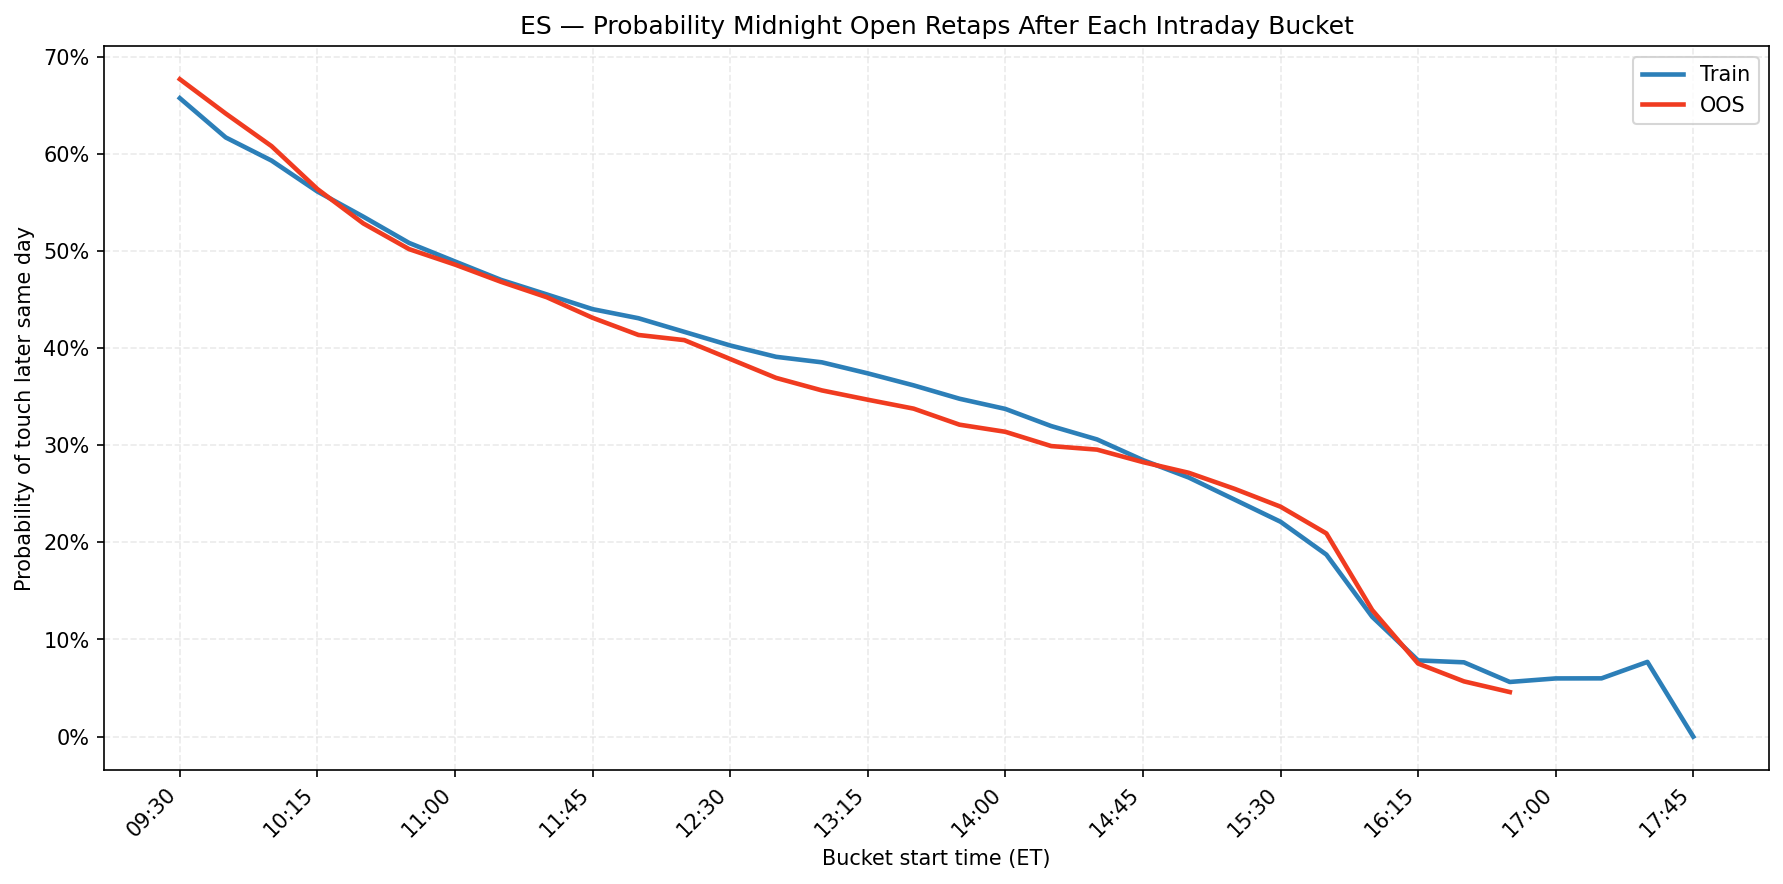
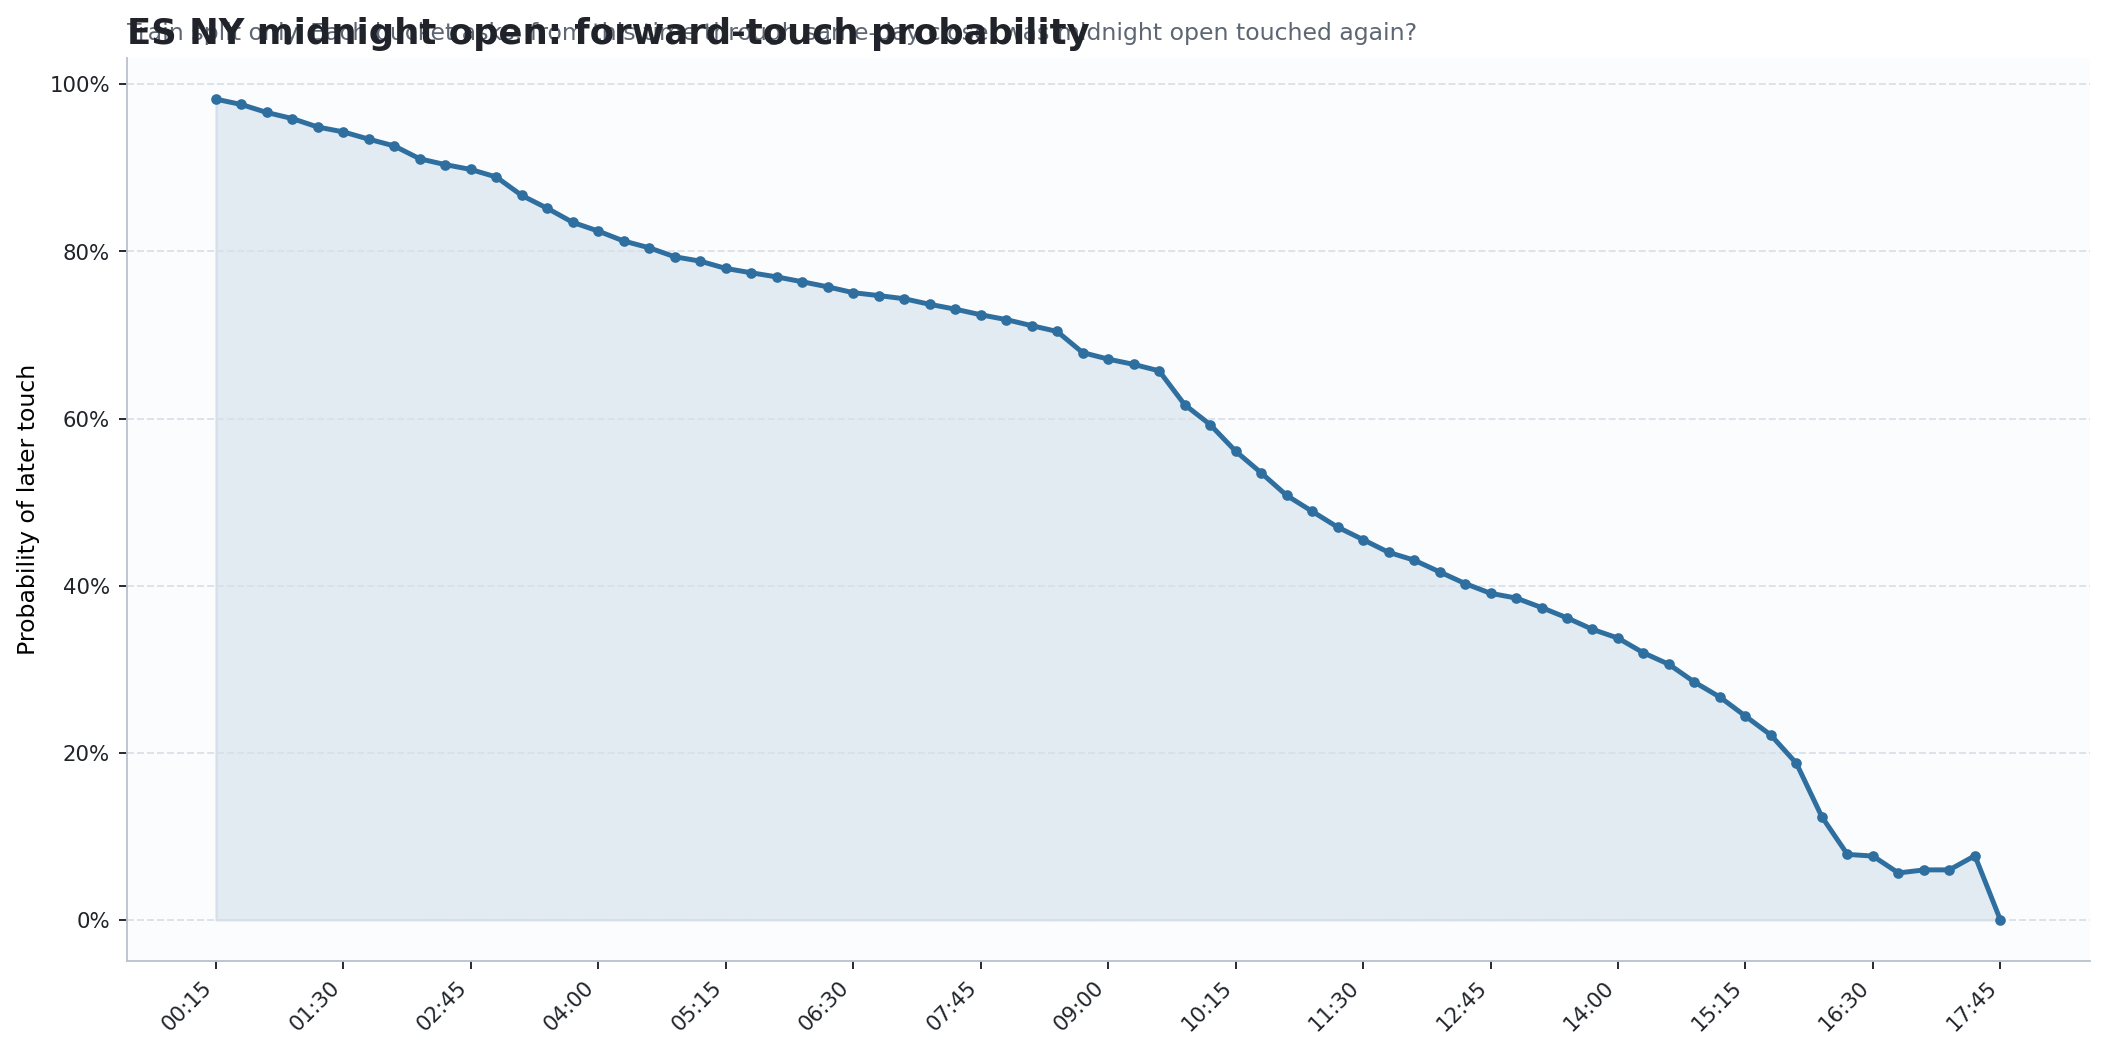
feat: add reproducible readme example gallery

diff --git a/scripts/build_readme_examples.py b/scripts/build_readme_examples.py
@@ -1,0 +1,253 @@
+#!/usr/bin/env python3
+"""Build tracked README example charts for the PO3 research toolkit."""
+
+from __future__ import annotations
+
+import argparse
+import sys
+from dataclasses import dataclass
+from pathlib import Path
+
+REPO_ROOT = Path(__file__).resolve().parents[1]
+if str(REPO_ROOT) not in sys.path:
+    sys.path.insert(0, str(REPO_ROOT))
+
+import matplotlib
+
+matplotlib.use("Agg")
+
+import matplotlib.pyplot as plt
+import matplotlib.ticker as mticker
+import numpy as np
+import pandas as pd
+
+from po3_research.research import (
+    DAYS,
+    SESSION_ORDER,
+    build_relative_level_path_rows,
+    build_weekly,
+    intraday_level_forward_touch_distribution,
+    load_1m_source,
+    load_and_resample,
+)
+
+DEFAULT_SYMBOL = "ES"
+DEFAULT_DATA_PATH = Path("data/es_1m.parquet")
+DEFAULT_OUTPUT_DIR = Path("output/examples")
+DEFAULT_RESAMPLE_TO = "1h"
+
+BULL = "#2E8B57"
+BEAR = "#C44536"
+BLUE = "#2F6F9F"
+GOLD = "#C99700"
+GRID = "#D9DEE7"
+TEXT = "#20242A"
+MUTED = "#5D6673"
+
+
+@dataclass(frozen=True)
+class GallerySpec:
+    filename: str
+    title: str
+
+
+def gallery_specs(symbol: str = DEFAULT_SYMBOL) -> list[GallerySpec]:
+    """Stable README gallery file list."""
+    s = symbol.lower()
+    label = symbol.upper()
+    return [
+        GallerySpec(f"{s}_weekly_low_day_distribution.png", f"{label} weekly low weekday distribution"),
+        GallerySpec(f"{s}_weekly_high_day_distribution.png", f"{label} weekly high weekday distribution"),
+        GallerySpec(f"{s}_weekly_extreme_hour_distribution.png", f"{label} weekly extreme hour distribution"),
+        GallerySpec(f"{s}_weekly_day_session_heatmap.png", f"{label} weekly day × session heatmap"),
+        GallerySpec(f"{s}_midnight_open_forward_touch_15m.png", f"{label} midnight-open forward-touch probability"),
+        GallerySpec(f"{s}_relative_path_context_summary.png", f"{label} relative path context summary"),
+    ]
+
+
+def _style_axes(ax: plt.Axes) -> None:
+    ax.set_facecolor("#FBFCFE")
+    ax.grid(axis="y", color=GRID, linewidth=0.8, linestyle="--", alpha=0.9)
+    ax.spines["top"].set_visible(False)
+    ax.spines["right"].set_visible(False)
+    ax.spines["left"].set_color("#BAC3CF")
+    ax.spines["bottom"].set_color("#BAC3CF")
+    ax.tick_params(colors=TEXT, labelsize=9)
+
+
+def _finish(fig: plt.Figure, path: Path) -> None:
+    path.parent.mkdir(parents=True, exist_ok=True)
+    fig.savefig(path, dpi=170, bbox_inches="tight")
+    plt.close(fig)
+    print(f"wrote {path}")
+
+
+def _pct_by_bull_bear(weekly: pd.DataFrame, col: str) -> pd.DataFrame:
+    rows = []
+    for regime in ["Bullish", "Bearish"]:
+        sub = weekly[weekly["Bull_Bear"].eq(regime)]
+        pct = sub[col].value_counts(normalize=True).mul(100).reindex(DAYS, fill_value=0)
+        for day, value in pct.items():
+            rows.append({"Regime": regime, "Day": day, "Pct": float(value), "n": len(sub)})
+    return pd.DataFrame(rows)
+
+
+def _plot_weekday_distribution(weekly: pd.DataFrame, symbol: str, extreme: str, col: str, output: Path) -> None:
+    data = _pct_by_bull_bear(weekly, col)
+    fig, ax = plt.subplots(figsize=(11.5, 6.2))
+    x = np.arange(len(DAYS))
+    width = 0.34
+    for offset, regime, color in [(-0.18, "Bullish", BULL), (0.18, "Bearish", BEAR)]:
+        sub = data[data["Regime"].eq(regime)]
+        bars = ax.bar(x + offset, sub["Pct"], width, label=f"{regime} weeks (n={int(sub['n'].iloc[0])})", color=color, edgecolor="white", linewidth=1)
+        for bar in bars:
+            h = bar.get_height()
+            if h >= 1:
+                ax.text(bar.get_x() + bar.get_width() / 2, h + 0.7, f"{h:.1f}%", ha="center", va="bottom", fontsize=8, color=TEXT)
+    _style_axes(ax)
+    ax.set_xticks(x)
+    ax.set_xticklabels(DAYS)
+    ax.set_ylabel("Share of weeks")
+    ax.yaxis.set_major_formatter(mticker.PercentFormatter())
+    ax.set_title(f"{symbol.upper()} weekly {extreme.lower()} formation by weekday", loc="left", fontsize=15, fontweight="bold", color=TEXT)
+    ax.text(0, 1.02, "Bullish/bearish split shows whether weekly direction changes the timing profile.", transform=ax.transAxes, color=MUTED, fontsize=10)
+    ax.legend(frameon=False, loc="upper right")
+    fig.tight_layout()
+    _finish(fig, output)
+
+
+def _plot_hour_distribution(weekly: pd.DataFrame, symbol: str, output: Path) -> None:
+    fig, axes = plt.subplots(2, 2, figsize=(13, 8.5), sharex=True)
+    fig.suptitle(f"{symbol.upper()} hour-of-day when weekly extremes formed", x=0.06, y=0.99, ha="left", fontsize=15, fontweight="bold", color=TEXT)
+    fig.text(0.06, 0.955, "Hours are New York time; each panel is normalized within its weekly direction bucket.", color=MUTED, fontsize=10)
+    combos = [
+        ("Weekly LOW", "Low_Hour", "Bullish", BULL),
+        ("Weekly LOW", "Low_Hour", "Bearish", BEAR),
+        ("Weekly HIGH", "High_Hour", "Bullish", BULL),
+        ("Weekly HIGH", "High_Hour", "Bearish", BEAR),
+    ]
+    for ax, (label, col, regime, color) in zip(axes.ravel(), combos):
+        sub = weekly[weekly["Bull_Bear"].eq(regime)]
+        pct = sub[col].value_counts(normalize=True).mul(100).reindex(range(24), fill_value=0)
+        ax.bar(pct.index, pct.values, color=color, width=0.82, edgecolor="white")
+        _style_axes(ax)
+        ax.set_title(f"{label} — {regime} (n={len(sub)})", loc="left", fontsize=11, color=TEXT)
+        ax.set_ylabel("Share")
+        ax.set_xticks(range(0, 24, 2))
+        ax.yaxis.set_major_formatter(mticker.PercentFormatter())
+    fig.supxlabel("Hour (ET)", y=0.04, fontsize=10)
+    fig.tight_layout(rect=(0, 0.04, 1, 0.94))
+    _finish(fig, output)
+
+
+def _plot_day_session_heatmap(weekly: pd.DataFrame, symbol: str, output: Path) -> None:
+    fig, axes = plt.subplots(2, 2, figsize=(13.5, 9.5), sharex=True, sharey=True)
+    fig.suptitle(f"{symbol.upper()} weekly extreme timing: weekday × session", x=0.06, y=0.99, ha="left", fontsize=15, fontweight="bold", color=TEXT)
+    fig.text(0.06, 0.958, "Cell values are % of weeks inside each bullish/bearish subset.", color=MUTED, fontsize=10)
+    panels = [
+        ("LOW — Bullish", "Low_Weekday", "Low_Session", "Bullish"),
+        ("LOW — Bearish", "Low_Weekday", "Low_Session", "Bearish"),
+        ("HIGH — Bullish", "High_Weekday", "High_Session", "Bullish"),
+        ("HIGH — Bearish", "High_Weekday", "High_Session", "Bearish"),
+    ]
+    vmax = 0.0
+    tables = []
+    for _, day_col, sess_col, regime in panels:
+        sub = weekly[weekly["Bull_Bear"].eq(regime)]
+        ct = pd.crosstab(sub[day_col], sub[sess_col], normalize=True).mul(100).reindex(DAYS, fill_value=0).reindex(columns=SESSION_ORDER, fill_value=0)
+        tables.append((ct, len(sub)))
+        vmax = max(vmax, float(ct.values.max()))
+    for ax, panel, table in zip(axes.ravel(), panels, tables):
+        title, _, _, _ = panel
+        ct, n = table
+        im = ax.imshow(ct.values, cmap="YlGnBu", aspect="auto", vmin=0, vmax=vmax)
+        ax.set_title(f"{title} (n={n})", loc="left", fontsize=11, color=TEXT)
+        ax.set_xticks(range(len(SESSION_ORDER)))
+        ax.set_xticklabels(SESSION_ORDER, rotation=25, ha="right")
+        ax.set_yticks(range(len(DAYS)))
+        ax.set_yticklabels(DAYS)
+        for r in range(ct.shape[0]):
+            for c in range(ct.shape[1]):
+                v = ct.values[r, c]
+                if v >= 0.5:
+                    ax.text(c, r, f"{v:.1f}", ha="center", va="center", fontsize=8, color="white" if v > vmax * 0.58 else TEXT)
+    fig.colorbar(im, ax=axes.ravel().tolist(), shrink=0.88, label="% of weeks")
+    fig.tight_layout(rect=(0, 0, 0.94, 0.94))
+    _finish(fig, output)
+
+
+def _plot_forward_touch(df_1m: pd.DataFrame, symbol: str, output: Path) -> None:
+    forward = intraday_level_forward_touch_distribution(df_1m, bucket_freq="15min")
+    sub = forward[(forward["Split"].eq("Train")) & (forward["Level_Name"].eq("NY_Midnight_Open"))].copy()
+    fig, ax = plt.subplots(figsize=(12.5, 6.3))
+    x = np.arange(len(sub))
+    ax.plot(x, sub["touch_pct"], color=BLUE, linewidth=2.1, marker="o", markersize=3.5)
+    ax.fill_between(x, sub["touch_pct"].astype(float).to_numpy(), color=BLUE, alpha=0.12)
+    _style_axes(ax)
+    step = max(1, len(sub) // 14)
+    ax.set_xticks(x[::step])
+    ax.set_xticklabels(sub["Bucket_Time"].iloc[::step], rotation=45, ha="right")
+    ax.set_ylabel("Probability of later touch")
+    ax.yaxis.set_major_formatter(mticker.PercentFormatter())
+    ax.set_title(f"{symbol.upper()} NY midnight open: forward-touch probability", loc="left", fontsize=15, fontweight="bold", color=TEXT)
+    ax.text(0, 1.02, "Train split only. Each bucket asks: from this time through same-day close, was midnight open touched again?", transform=ax.transAxes, color=MUTED, fontsize=10)
+    fig.tight_layout()
+    _finish(fig, output)
+
+
+def _plot_relative_path(df_1m: pd.DataFrame, symbol: str, output: Path) -> None:
+    rows = build_relative_level_path_rows(df_1m)
+    focus = rows[(rows["Split"].eq("Train")) & (rows["Window_Name"].eq("Midnight_to_0930"))].copy()
+    summary = focus.groupby("Level_Name", as_index=False)[["Pct_Bars_Above_Level", "Pct_Bars_Below_Level", "Pct_Bars_Touching_Level"]].mean()
+    summary = summary.set_index("Level_Name").reindex(["Globex_Open", "NY_Midnight_Open", "NY_0930_Open", "NY_1300_Open"]).dropna(how="all")
+    fig, ax = plt.subplots(figsize=(12.5, 6.6))
+    x = np.arange(len(summary))
+    width = 0.26
+    cols = ["Pct_Bars_Above_Level", "Pct_Bars_Below_Level", "Pct_Bars_Touching_Level"]
+    labels = ["Above level", "Below level", "Touching level"]
+    colors = [BULL, BEAR, GOLD]
+    for i, (col, label, color) in enumerate(zip(cols, labels, colors)):
+        ax.bar(x + (i - 1) * width, summary[col], width, label=label, color=color, edgecolor="white")
+    _style_axes(ax)
+    ax.set_xticks(x)
+    ax.set_xticklabels([name.replace("_", "\n") for name in summary.index])
+    ax.set_ylabel("Average % of bars")
+    ax.yaxis.set_major_formatter(mticker.PercentFormatter())
+    ax.set_title(f"{symbol.upper()} relative path context before 09:30", loc="left", fontsize=15, fontweight="bold", color=TEXT)
+    ax.text(0, 1.02, "Train split, Midnight→09:30 window. Bars are classified relative to each defined key open.", transform=ax.transAxes, color=MUTED, fontsize=10)
+    ax.legend(frameon=False, ncol=3, loc="upper right")
+    fig.tight_layout()
+    _finish(fig, output)
+
+
+def build_examples(symbol: str, data_path: Path, output_dir: Path, resample_to: str) -> None:
+    symbol = symbol.upper()
+    specs = {spec.filename: spec for spec in gallery_specs(symbol)}
+    df_1m = load_1m_source(str(data_path))
+    df = load_and_resample(str(data_path), resample_to)
+    weekly = build_weekly(df)
+
+    _plot_weekday_distribution(weekly, symbol, "LOW", "Low_Weekday", output_dir / specs[f"{symbol.lower()}_weekly_low_day_distribution.png"].filename)
+    _plot_weekday_distribution(weekly, symbol, "HIGH", "High_Weekday", output_dir / specs[f"{symbol.lower()}_weekly_high_day_distribution.png"].filename)
+    _plot_hour_distribution(weekly, symbol, output_dir / specs[f"{symbol.lower()}_weekly_extreme_hour_distribution.png"].filename)
+    _plot_day_session_heatmap(weekly, symbol, output_dir / specs[f"{symbol.lower()}_weekly_day_session_heatmap.png"].filename)
+    _plot_forward_touch(df_1m, symbol, output_dir / specs[f"{symbol.lower()}_midnight_open_forward_touch_15m.png"].filename)
+    _plot_relative_path(df_1m, symbol, output_dir / specs[f"{symbol.lower()}_relative_path_context_summary.png"].filename)
+
+
+def parse_args() -> argparse.Namespace:
+    parser = argparse.ArgumentParser(description="Build README example PNGs from local futures parquet data.")
+    parser.add_argument("--symbol", default=DEFAULT_SYMBOL, help="Symbol label for chart titles and filenames. Default: ES")
+    parser.add_argument("--data", type=Path, default=DEFAULT_DATA_PATH, help="Path to 1-minute parquet data. Default: data/es_1m.parquet")
+    parser.add_argument("--output-dir", type=Path, default=DEFAULT_OUTPUT_DIR, help="Directory for README PNGs. Default: output/examples")
+    parser.add_argument("--resample-to", default=DEFAULT_RESAMPLE_TO, help="Resample interval for weekly charts. Default: 1h")
+    return parser.parse_args()
+
+
+def main() -> None:
+    args = parse_args()
+    build_examples(args.symbol, args.data, args.output_dir, args.resample_to)
+
+
+if __name__ == "__main__":
+    main()

diff --git a/tests/test_readme_examples.py b/tests/test_readme_examples.py
@@ -1,0 +1,37 @@
+from pathlib import Path
+
+from scripts.build_readme_examples import DEFAULT_DATA_PATH, DEFAULT_OUTPUT_DIR, gallery_specs
+
+
+def test_gallery_specs_are_stable_core_six():
+    specs = gallery_specs("ES")
+
+    assert [spec.filename for spec in specs] == [
+        "es_weekly_low_day_distribution.png",
+        "es_weekly_high_day_distribution.png",
+        "es_weekly_extreme_hour_distribution.png",
+        "es_weekly_day_session_heatmap.png",
+        "es_midnight_open_forward_touch_15m.png",
+        "es_relative_path_context_summary.png",
+    ]
+    assert len({spec.title for spec in specs}) == 6
+
+
+def test_default_paths_target_local_es_gallery():
+    assert DEFAULT_DATA_PATH == Path("data/es_1m.parquet")
+    assert DEFAULT_OUTPUT_DIR == Path("output/examples")
+
+
+def test_script_runs_help_when_executed_by_path():
+    import subprocess
+    import sys
+
+    result = subprocess.run(
+        [sys.executable, "scripts/build_readme_examples.py", "--help"],
+        check=False,
+        capture_output=True,
+        text=True,
+    )
+
+    assert result.returncode == 0
+    assert "Build README example PNGs" in result.stdout
